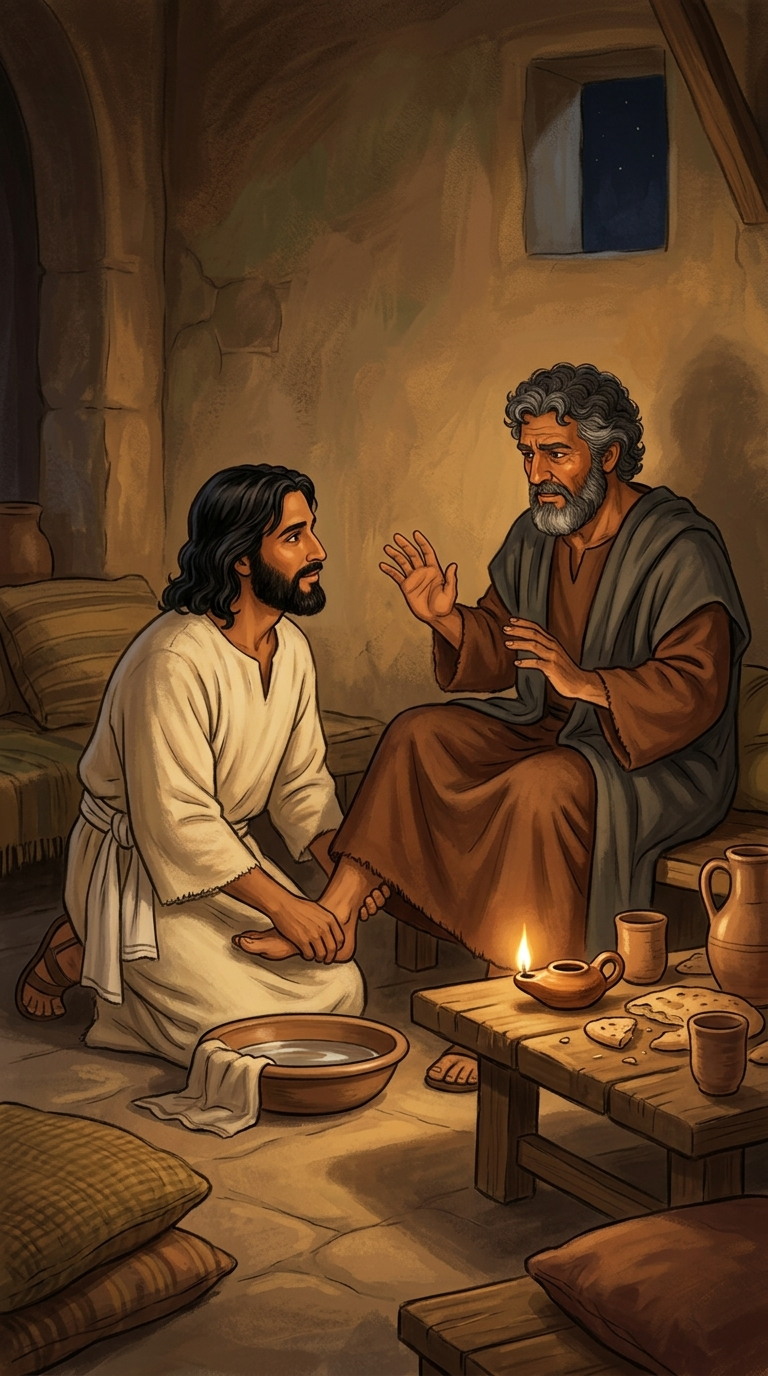
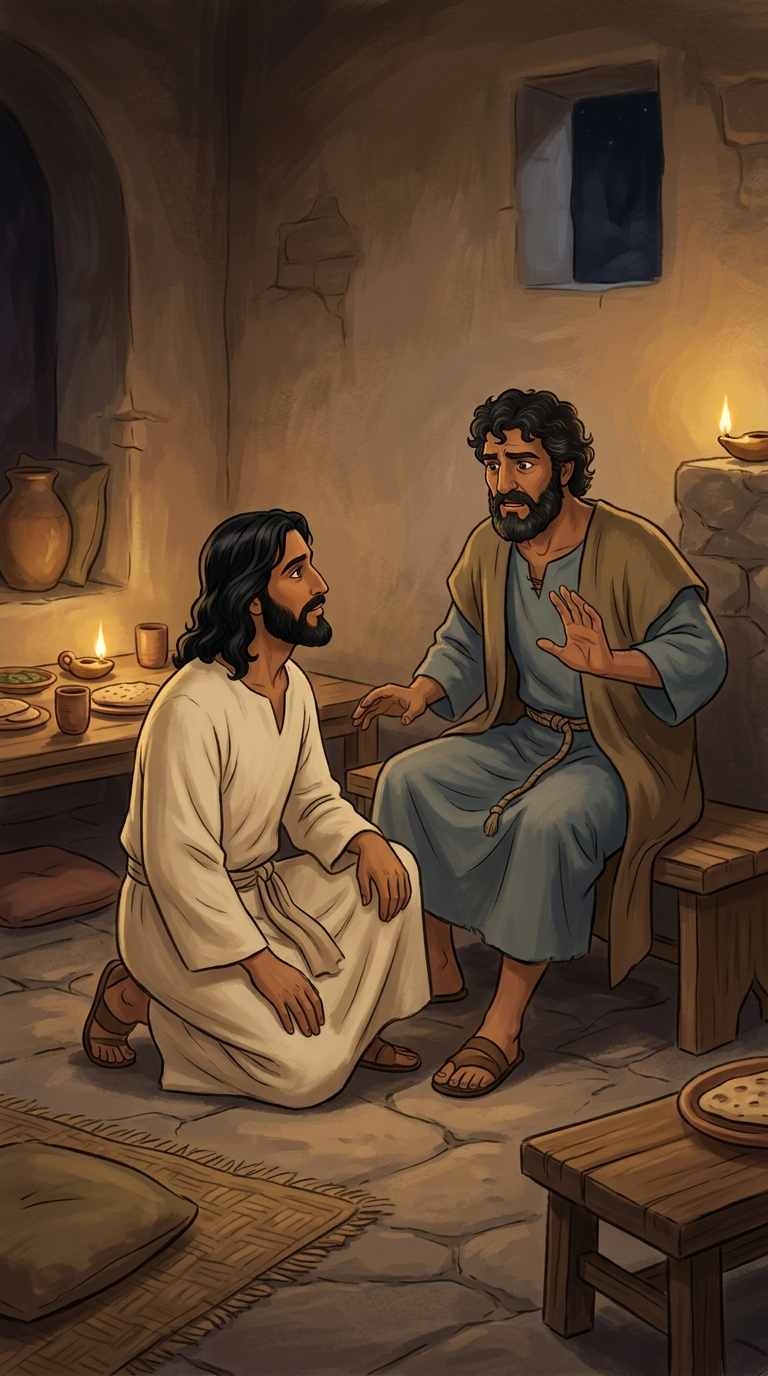
COMPLAINTS #90/#92/#102/#103: found the ROOT CAUSE of "Peter went grey" — each build carried its own drifted copy of the character lock; added character_drift_qc.py
Cameron, repeatedly: "Why does every disciple look the fucking same" (#90), "Peter went
from grey to not grey hair" (#92), "he lost his beard in one of the pictures" (#62),
"Jacob doesnt have a beard and then does — we need a qc just for beards dissapeaering
or appearing" (#102).

The image model was NOT ignoring us. Every build's PROMPTS.md carries its own inline
`[X LOCK] = ...` copy of a character's description, and those copies drifted away from
the approved sheet in CHARACTERS/REFS.json. build-90 contained BOTH descriptions at
once and obeyed the wrong one:

  approved sheet : mid-thirties, thick dark curly hair, full DARK beard, BLUE-GREY tunic
  build-90's copy: "of about fifty", dark hair "streaked with grey", "full grey-streaked
                   dark beard", "dark rust-brown wool tunic"

So the picture was correctly following bad instructions. Same man, two different people
across the library.

- NEW media-production/character_drift_qc.py — the beard QC Cameron asked for in #102,
  generalised: compares every inline [X LOCK] against the approved sheet and fails on a
  contradiction in AGE, GREY-HAIR, BEARD (appearing/disappearing) or GARMENT colour.
  Swept all 203 builds -> 4 real contradictions, both Peter (build-90, build-197).
  Now exits 0.
  False positives found and killed while building it, because a QC that cries wolf is
  worse than none: fuzzy name matching checked the Two Sons parable's vineyard FATHER
[…]

diff --git a/media-production/character_drift_qc.py b/media-production/character_drift_qc.py
@@ -1,0 +1,194 @@
+#!/usr/bin/env python3
+"""character_drift_qc.py — catch a character described DIFFERENTLY in different builds.
+
+Cameron, 2026-07-25 (complaints #90 "why does every disciple look the same",
+#92/#103 "Peter went from grey to not grey", #102 "we need a QC just for beards
+disappearing or appearing", #62 "he lost his beard", #32 "grows a beard"):
+
+The root cause was NOT the image model ignoring us. Each build's PROMPTS.md carries
+its OWN inline copy of a character's description as a `[X LOCK] = ...` block, and
+those copies drifted away from the approved sheet in CHARACTERS/REFS.json. build-90
+literally contained BOTH "PETER ~35 ... blue-grey" (in DISCIPLES LOCK) and
+"Peter ... of about fifty ... grey-streaked ... rust-brown" (in PETER LOCK). The
+picture obeyed the wrong one. So the same man went grey between videos.
+
+This gate compares every inline `[X LOCK]` against the approved lock_text for that
+character and fails on a CONTRADICTION in the traits Cameron actually notices:
+
+  age        — a stated age that differs by more than AGE_TOL years
+  hair/beard — grey/silver/white/salt-and-pepper asserted on one side only
+  beard      — "clean-shaven"/"beardless" vs "full beard" (the beard flicker)
+  garment    — a different locked tunic/robe colour
+
+Usage:
+  python3 character_drift_qc.py                 # every build, summary + exit 1 on drift
+  python3 character_drift_qc.py --dir build-90-washing-feet
+  python3 character_drift_qc.py --fix           # rewrite drifted blocks to the sheet
+"""
+import argparse
+import json
+import re
+import sys
+from pathlib import Path
+
+HERE = Path(__file__).resolve().parent
+REFS = json.loads((HERE / "CHARACTERS" / "REFS.json").read_text())
+
+AGE_TOL = 6
+
+# Story-justified differences: the SAME man at a different point in his life is not
+# drift. Each entry needs a scripture reason, not a shrug. (build, character, kind)
+WAIVERS = {
+    ("build-180-before-i-formed-thee", "jeremiah", "GREY-HAIR"):
+        "Jer 1:6 — this is his CALL; he is a youth here, decades before the grey-bearded "
+        "weeping prophet the sheet locks. Age-appropriate, not drift.",
+}
+
+GREY = re.compile(r"\b(grey|gray|silver|white[- ]hair\w*|salt[- ]and[- ]pepper|greying|graying)\b", re.I)
+# "grey-blue tunic" / "stone-grey" are GARMENT colours, not hair. Only count grey
+# that is actually attached to hair or beard.
+GREY_HAIR = re.compile(
+    r"\b(grey|gray|silver|salt[- ]and[- ]pepper|greying|graying|white)[- ]?(streaked\s+)?"
+    r"(?:\w+\s+){0,3}?(hair|beard|head|hairline|temples)\b", re.I)
+GREY_HAIR_REV = re.compile(
+    r"\b(hair|beard|hairline|temples)\b(?:\s+\w+){0,3}?\s+"
+    r"(streaked\s+with\s+)?(grey|gray|silver|salt[- ]and[- ]pepper|white)\b", re.I)
+BEARDLESS = re.compile(r"\b(clean[- ]shaven|beardless|no beard|without a beard)\b", re.I)
+BEARDED = re.compile(r"\b(full[- ]\w*\s?beard|thick beard|a full beard|bearded|dark beard|short beard|trimmed \w+ beard)\b", re.I)
+AGE = re.compile(r"\b(?:about|around|aged|of about|in his|~)\s*(?:his\s+)?(\d{2})\b|\b~(\d{2})\b|\bof about (\d{2})\b", re.I)
+AGE_WORD = {"twenties": 25, "mid-twenties": 25, "thirties": 35, "mid-thirties": 35,
+            "late thirties": 38, "forties": 45, "mid-forties": 45, "fifties": 55}
+COLOURS = ("blue-grey", "grey-blue", "rust-brown", "russet", "ochre", "olive-drab",
+           "forest-green", "teal-green", "indigo", "charcoal", "oxblood", "maroon",
+           "mustard", "sand-tan", "stone-grey", "cream", "dun-brown", "brown", "blue",
+           "green", "grey", "red")
+GARMENT = re.compile(r"\b([a-z-]+)\s+(?:wool\s+|linen\s+)?(tunic|robe|mantle|cloak)\b", re.I)
+
+
+NEGATED = re.compile(r"\b(never|not|no|nor)\b[^.;,]{0,40}?"
+                     r"\b(bearded|beard|grey|gray|silver|white|clean[- ]shaven)\b", re.I)
+
+
+def denegate(text):
+    """Drop 'never bearded' / 'no grey' style clauses so a prohibition is not read
+    as an assertion of the very trait it forbids."""
+    return NEGATED.sub(" ", text)
+
+
+def ages(text):
+    out = []
+    for m in AGE.finditer(text):
+        g = next((x for x in m.groups() if x), None)
+        if g:
+            out.append(int(g))
+    for word, val in AGE_WORD.items():
+        if re.search(r"\b" + word + r"\b", text, re.I):
+            out.append(val)
+    return out
+
+
+def greyhair(text):
+    return bool(GREY_HAIR.search(text) or GREY_HAIR_REV.search(text))
+
+
+def garments(text):
+    found = set()
+    for m in GARMENT.finditer(text):
+        c = m.group(1).lower()
+        if c in COLOURS:
+            found.add((c, m.group(2).lower()))
+    return found
+
+
+# A lock name only maps to an approved sheet on an EXACT slug match or through this
+# explicit alias table. Fuzzy matching was WRONG: build-06's `[FATHER LOCK]` is the
+# vineyard-owner father of the Two Sons parable, and a "endswith -father" rule
+# silently checked him against the GOD THE FATHER sheet. Generic role words
+# (FATHER, MOTHER, WOMAN, BOY, SON, MAN) are parable characters far more often than
+# they are the named cast, so they must never fuzzy-resolve.
+# Bare first names are AMBIGUOUS and must not resolve: build-147's `[JOSEPH LOCK]`
+# is Joseph of EGYPT, build-69's `[JOHN LOCK]` is John the BAPTIST. An alias table
+# guessed wrong on both and would have sent someone repainting a correct picture.
+# Exact slug match only. A build that wants coverage for a short name spells the
+# lock out: `[JOHN-THE-BAPTIST LOCK]`.
+AMBIGUOUS = {"john", "james", "mary", "joseph", "simon", "judas", "father",
+             "mother", "woman", "boy", "son", "man"}
+
+
+def canon_slug(lockname):
+    """[PETER LOCK] -> peter. Exact slug only — never fuzzy, never a bare first name."""
+    s = lockname.lower().replace(" lock", "").strip().replace(" ", "-")
+    if s in AMBIGUOUS:
+        return None
+    return s if s in REFS else None
+
+
+LOCKDEF = re.compile(r"\[([A-Z][A-Z' -]*?) LOCK\]\s*=\s*(.*?)(?=\n\s*\n|\n\[[A-Z])", re.S)
+
+
+def check_build(path):
+    text = path.read_text(encoding="utf-8", errors="ignore")
+    issues = []
+    for m in LOCKDEF.finditer(text):
+        name, body = m.group(1), " ".join(m.group(2).split())
+        slug = canon_slug(name)
+        if not slug:
+            continue
+        canon = REFS[slug]["lock_text"]
+        line = text[:m.start()].count("\n") + 1
+
+        ca, ba = ages(canon), ages(body)
+        if ca and ba and min(abs(x - y) for x in ca for y in ba) > AGE_TOL:
+            issues.append((line, slug, "AGE", f"sheet says {ca}, this build says {ba}"))
+
+        gb, gc = greyhair(denegate(body)), greyhair(denegate(canon))
+        if gb and not gc:
+            issues.append((line, slug, "GREY-HAIR", "this build adds grey/silver hair or beard; the sheet has none"))
+        elif gc and not gb:
+            issues.append((line, slug, "GREY-HAIR", "the sheet has grey hair; this build drops it"))
+
+        # Strip negations first: Pilate's sheet says "clean-shaven ... never bearded",
+        # and a naive BEARDED match on "never bearded" read that as a contradiction.
+        cn, bn = denegate(canon), denegate(body)
+        if BEARDLESS.search(bn) and BEARDED.search(cn):
+            issues.append((line, slug, "BEARD", "this build says clean-shaven; the sheet says bearded"))
+        elif BEARDLESS.search(cn) and BEARDED.search(bn):
+            issues.append((line, slug, "BEARD", "this build gives him a beard; the sheet says clean-shaven"))
+
+        cg, bg = garments(canon), garments(body)
+        for kind in ("tunic", "robe"):
+            cc = {c for c, k in cg if k == kind}
+            bc = {c for c, k in bg if k == kind}
+            if cc and bc and not (cc & bc):
+                issues.append((line, slug, "GARMENT",
+                               f"sheet {kind} is {sorted(cc)}, this build says {sorted(bc)}"))
+    return issues
+
+
+def main():
+    ap = argparse.ArgumentParser()
+    ap.add_argument("--dir", help="one build folder; default = all")
+    args = ap.parse_args()
+
+    builds = [HERE / args.dir] if args.dir else sorted(
+        p for p in HERE.glob("build-*") if (p / "PROMPTS.md").exists())
+
+    total = 0
+    for b in builds:
+        pm = b / "PROMPTS.md"
+        if not pm.exists():
+            continue
+        issues = [i for i in check_build(pm)
+                  if (b.name, i[1], i[2]) not in WAIVERS]
+        if issues:
+            print(f"\n{b.name}")
+            for line, slug, kind, why in issues:
+                print(f"  PROMPTS.md:{line}  {slug:<22} {kind:<10} {why}")
+            total += len(issues)
+
+    print(f"\n{'='*70}\nCHARACTER DRIFT: {total} contradiction(s) across {len(builds)} build(s)")
+    return 1 if total else 0
+
+
+if __name__ == "__main__":
+    sys.exit(main())

diff --git a/media-production/build-90-washing-feet/PROMPTS.md b/media-production/build-90-washing-feet/PROMPTS.md
@@ -31,11 +31,13 @@ window. All light is warm amber oil-lamp light.
 
 [DISCIPLES LOCK] = the twelve are TWELVE CLEARLY DIFFERENT men — NOT lookalikes, each his own age, hair and beard (attach the-twelve reference sheet): PETER broad, ~35, thick dark CURLY hair + full beard, blue-grey; ANDREW leaner ~30, short beard, olive-drab; JAMES (Zebedee) ~25, short dark beard, ochre-brown; JOHN the youngest ~20, CLEAN-SHAVEN, dark hair to the jaw, grey-blue; PHILIP ~32, the only SANDY LIGHT-BROWN head, sand-tan; BARTHOLOMEW the eldest ~45, SILVER-STREAKED broadest beard, forest-green; MATTHEW ~40, trimmed city beard, teal-green; THOMAS ~35, STRAIGHT BLACK hair to the jaw, indigo-charcoal; JAMES (Alphaeus) the SHORTEST ~30, stone-grey; THADDAEUS ~28, CHESTNUT curly hair, mustard-gold; SIMON the Zealot ~35, black hair tied back, oxblood-maroon; JUDAS ~35, ordinary, dark russet. All in dark saturated earth tones, never pale, never cream; no disciple resembles the man in cream; every visible figure has two arms, two hands, two legs, one head, every limb joined to the correct body. They must read as a dozen DISTINCT individuals, never twelve copies of one face.
 
-[PETER LOCK] = Peter, the same man in every picture he appears in: a stocky,
-broad-shouldered Middle Eastern Jewish fisherman of about fifty, weathered
-sun-browned face, a FULL hairline of thick curly dark hair streaked with grey, a
-full grey-streaked dark beard, deep-set dark eyes, a dark rust-brown wool tunic
-with a charcoal-grey mantle (never cream). He appears EXACTLY ONCE in any frame;
+[PETER LOCK] = Peter, the same man in every picture he appears in: a sturdy
+broad-shouldered Galilean fisherman in his MID-THIRTIES, weathered olive skin,
+thick DARK curly hair and a full DARK beard — never grey, never silver, never
+salt-and-pepper, never an old man — deep-set dark eyes, strong rope-worn hands,
+an open expressive face, quick to speak and quick to feel. A BLUE-GREY wool
+tunic with a rope belt and a dun-brown fisher's mantle (never cream, so he is
+never confused with the cream-robed Lord). He appears EXACTLY ONCE in any frame;
 no other figure in the frame resembles him.
 
 ---
@@ -58,7 +60,7 @@ SINGLE UNIFIED ILLUSTRATION, one scene edge to edge, NOT a grid, triptych, stack
 ## s4-peter-protests — Shot 4: "you'll never wash MY feet"
 JESUS LOCK v3: the SAME man as the attached JESUS-MASTER-REF images — identical face, hair and beard in every picture: a Middle Eastern Jewish man of about thirty-three, warm tan olive-brown skin, shoulder-length dark brown-black wavy hair, a full dark beard, kind warm BROWN eyes, one plain undyed off-white cream wool robe (only he wears cream). No halo, no glow. Never caucasian, never pale, never blue-eyed, never blond.
 REF: jesus-master-ref
-SINGLE UNIFIED ILLUSTRATION, one scene edge to edge, NOT a grid, triptych, stacked panels or comic strip, no dividing lines, one picture only, artwork fills the ENTIRE frame and bleeds to all four edges, no border, no vignette, one single tall upright vertical painting. [STILL STYLE BLOCK] [UPPER-ROOM LOCK] [PETER LOCK] Peter sits half-recoiling on the low bench, drawing his feet back, one hand raised in protest, his weathered face conflicted — awe and refusal at once. Jesus kneels before him with the towel about his waist and the basin beside him, looking up at Peter with calm unhurried warmth, his face shown clearly, utterly unoffended. Only Jesus wears cream; Peter in his dark rust-brown tunic and charcoal-grey mantle. Warm amber lamplight. Each man appears exactly once. Every figure: two arms, two hands, two legs, one head, every limb joined to the correct body. One single continuous scene painted edge to edge. 9:16 vertical.
+SINGLE UNIFIED ILLUSTRATION, one scene edge to edge, NOT a grid, triptych, stacked panels or comic strip, no dividing lines, one picture only, artwork fills the ENTIRE frame and bleeds to all four edges, no border, no vignette, one single tall upright vertical painting. [STILL STYLE BLOCK] [UPPER-ROOM LOCK] [PETER LOCK] Peter — the SAME man as the attached PETER reference images, a sturdy Galilean fisherman in his MID-THIRTIES with thick dark curly hair and a full DARK beard; he is NOT old, NOT grey-haired, NOT grey-bearded, NOT white-haired — sits half-recoiling on the low bench, drawing his feet back, one hand raised in protest, his face conflicted — awe and refusal at once. Jesus kneels before him with the towel about his waist and the basin beside him, looking up at Peter with calm unhurried warmth, his face shown clearly, utterly unoffended. Only Jesus wears cream; Peter in his locked BLUE-GREY wool tunic with a dun-brown fisher's mantle. Warm amber lamplight. Each man appears exactly once. Every figure: two arms, two hands, two legs, one head, every limb joined to the correct body. One single continuous scene painted edge to edge. 9:16 vertical.
 
 ## s5-no-part-with-me — Shot 5: gentle and certain [SILENCE]
 JESUS LOCK v3: the SAME man as the attached JESUS-MASTER-REF images — identical face, hair and beard in every picture: a Middle Eastern Jewish man of about thirty-three, warm tan olive-brown skin, shoulder-length dark brown-black wavy hair, a full dark beard, kind warm BROWN eyes, one plain undyed off-white cream wool robe (only he wears cream). No halo, no glow. Never caucasian, never pale, never blue-eyed, never blond.

diff --git a/media-production/build-197-sons-and-daughters-prophesy/PROMPTS.md b/media-production/build-197-sons-and-daughters-prophesy/PROMPTS.md
@@ -32,11 +32,12 @@ man of about fifty, a lean weathered face, a FULL hairline of grey-streaked
 dark hair, a full grey-streaked beard, dressed in a dark umber robe with a
 charcoal mantle (never pale, never cream). He appears EXACTLY ONCE.
 
-[PETER LOCK] = Peter, in the picture he appears in: a stocky, broad-shouldered
-Middle Eastern Jewish fisherman of about fifty, weathered sun-browned face, a
-FULL hairline of thick curly dark hair streaked with grey, a full
-grey-streaked dark beard, deep-set dark eyes, a dark rust-brown wool tunic
-with a charcoal-grey mantle (never cream). He appears EXACTLY ONCE.
+[PETER LOCK] = Peter, in the picture he appears in: a sturdy broad-shouldered
+Galilean fisherman in his MID-THIRTIES, weathered olive skin, thick DARK curly
+hair and a full DARK beard — never grey, never silver, never salt-and-pepper,
+never an old man — deep-set dark eyes, strong rope-worn hands, an open
+expressive face. A BLUE-GREY wool tunic with a rope belt and a dun-brown
+fisher's mantle (never cream). He appears EXACTLY ONCE.
 
 [PEOPLE LOCK] = all other people are Middle Eastern men, women and children of
 every age and station in dark saturated earth tones — deep brown, rust,
